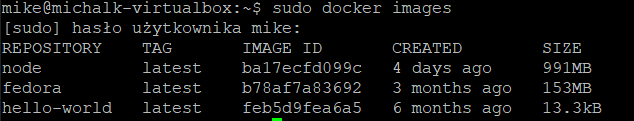
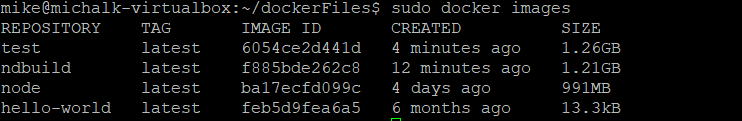
Final

diff --git a/INO/GCL01/MK402568/Lab03/SprawozdanieLab03.md b/INO/GCL01/MK402568/Lab03/SprawozdanieLab03.md
@@ -121,4 +121,36 @@ Utworzone pliki dockerfile kopiuje na maszyne wirtualną za pomocą serwera FTP 
 
 4. Wykaż, że kontener wdraża się i pracuje poprawnie. Pamiętaj o różnicy między obrazem a kontenerem. Co pracuje w takim kontenerze?
 
+Początkowo wykonywany jest dockerfile który wykonuje build, tak więc zadanie to wykonywane jest poprzez polecenie ```sudo docker build . -f firstDockerFile.dockerfile -t ndbuild```.Poprzez przełącznik ```-f``` odwołuje się do konkretnego pliku dockerfile, natomiast ```-t``` pozwala na ustalenie nazwy obrazu. Poniżej screenshoty potwierdzające powodzenie operacji.
+
+![](./red/firstDockerBuildPart1.png)
+
+![](./red/firstDockerBuildPart2.png)
+
+![](./red/firstDockerBuildPart3.png)
+
+Po przeprowadzeniu powyższych działań uruchomiłem drugi z plików dockerfile tym razem przeprowadzone zostają testy na utworzonym wcześniej obrazie. Polecenie analogiczne ze zmienionymi nazwami pliku oraz docelowego obrazu. Poniżej screeny potwierdzające operacje.
+
+![](./red/secondDockerFilepart1.png)
+
+![](./red/secondDockerFilepart2.png)
+
+
+Jak widzimy na ostatnim z powyższych screenów, żaden z testów nie zakończył się powodzeniem, co potwierdza że wcześniejsze kilka niepowodzeń testów były spowodowane wyłączenie delayem. 
+
+Pliki  dockerfile wykonały swoje zadanie w sposób prawidłowy, automatyzacja przebiegła pomyślnie. Powyższe operacje pozwalają użytkownikowi na przyśpieszenie pracy poprzez napisanie jednego pliku zarządzającego prace nad projektem.
+
+Dodatkowo wynik operacji poprzeć można poprzez komende ```sudo docker images```, screen poniżej:
+
+![](./red/images.png)
+
+Na koniec na poparcie, że wszystko przebiegło prawdiłowo korzystam z polecenia ```sudo docker run -it --name node-red node:latest i uruchamiam kontener z utworzonego obrazu. Jak widać uruchomiona została aplikacja Node.js v.17.
+
+![](./red/node-red.png)
+
+
+
+
+
+
 
